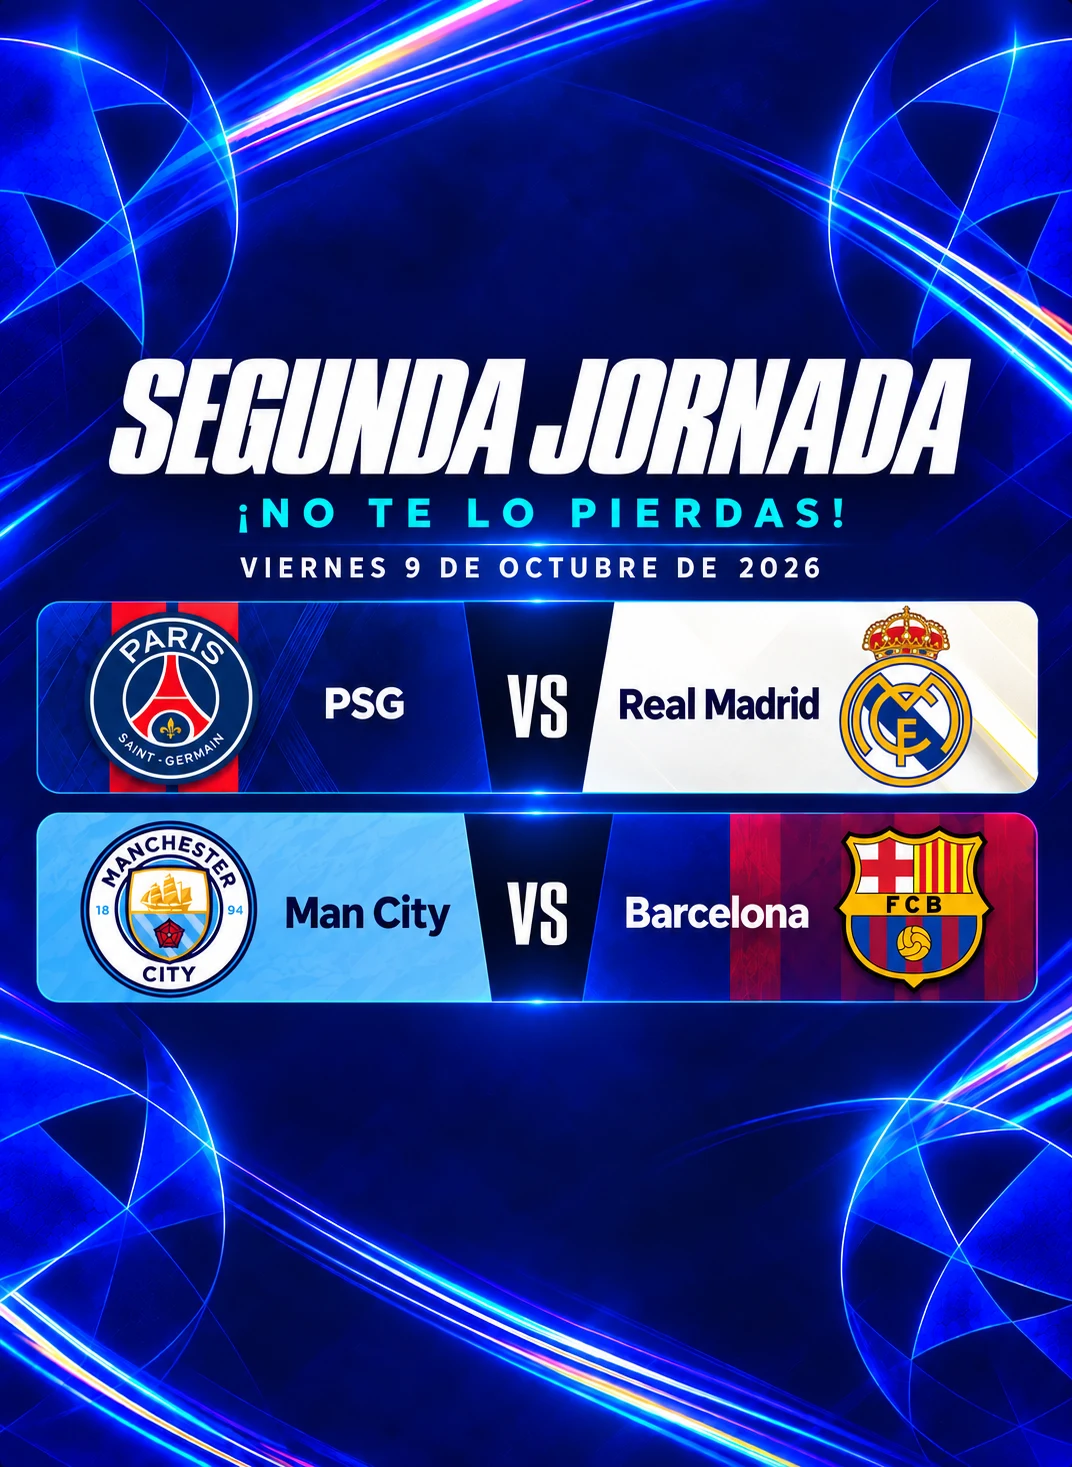
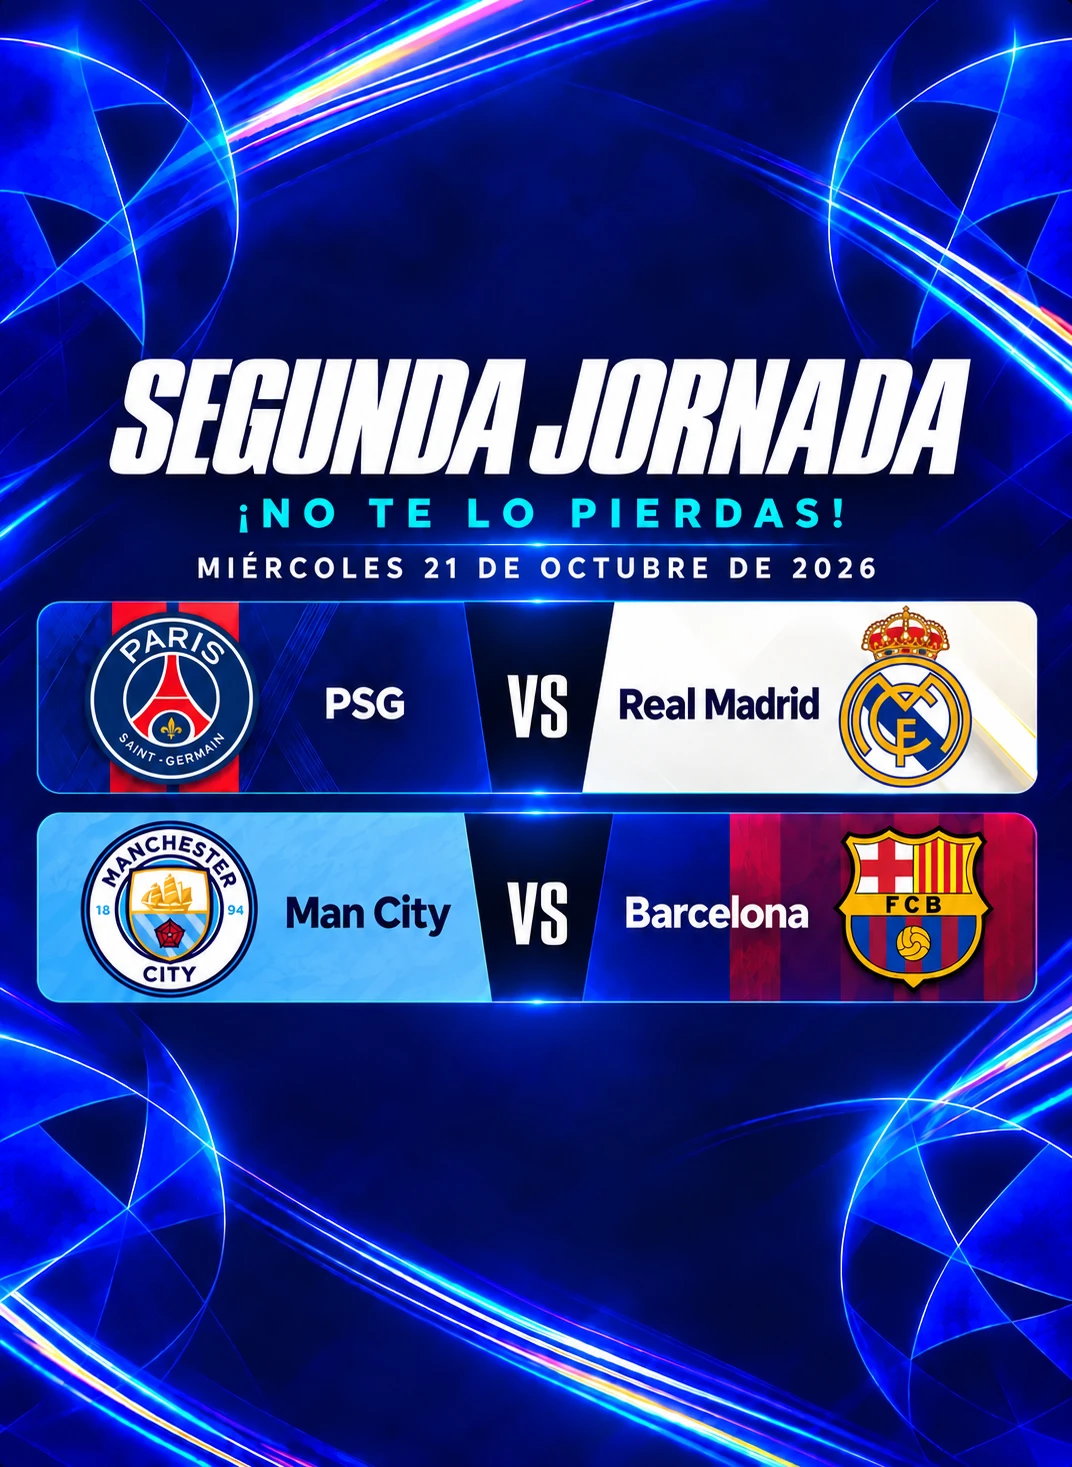
Reschedule Champions League matchdays

diff --git a/src/pages/PilotTournament.tsx b/src/pages/PilotTournament.tsx
@@ -299,11 +299,11 @@ const PilotTournament = () => {
   useAudienceTracking({ tournamentId, scope: "TOURNAMENT" });
   const [showMatchdayAd, setShowMatchdayAd] = useState(() => {
     if (typeof window === "undefined") return false;
-    return window.sessionStorage.getItem("sabis-matchday-2-ad-dismissed") !== "1";
+    return window.sessionStorage.getItem("sabis-matchday-2-oct-21-ad-dismissed") !== "1";
   });
   const dismissMatchdayAd = () => {
     setShowMatchdayAd(false);
-    window.sessionStorage.setItem("sabis-matchday-2-ad-dismissed", "1");
+    window.sessionStorage.setItem("sabis-matchday-2-oct-21-ad-dismissed", "1");
   };
 
   useEffect(() => {
@@ -386,7 +386,7 @@ const PilotTournament = () => {
       {activeSection === "home" && <>
         {showMatchdayAd && <div className="champions-matchday-ad fixed inset-0 z-50 flex items-center justify-center px-4 py-8" role="dialog" aria-modal="true" aria-label="Promoción de la segunda jornada">
           <div className="champions-matchday-ad-card relative flex max-h-full max-w-[calc(100vw-2rem)] flex-col items-center">
-            <img src={assetUrl("champions-matchday-2.webp")} alt="Segunda jornada, viernes 9 de octubre de 2026: PSG contra Real Madrid y Manchester City contra Barcelona" fetchPriority="high" className="champions-matchday-ad-image max-h-[64dvh] max-w-full rounded-[1.2rem] object-contain" />
+            <img src={assetUrl("champions-matchday-2.webp")} alt="Segunda jornada, miércoles 21 de octubre de 2026: PSG contra Real Madrid y Manchester City contra Barcelona" fetchPriority="high" className="champions-matchday-ad-image max-h-[64dvh] max-w-full rounded-[1.2rem] object-contain" />
             <button type="button" onClick={dismissMatchdayAd} aria-label="Cerrar anuncio" className="champions-matchday-ad-close absolute -right-3 -top-3 z-10 flex h-11 w-11 items-center justify-center rounded-full border border-white/20 bg-[#102451]/95 text-2xl font-black leading-none text-white shadow-xl transition hover:bg-[#1c3a75]">×</button>
             <button type="button" onClick={dismissMatchdayAd} className="champions-matchday-ad-more mt-3 min-w-[12rem] rounded-full bg-cyan-200 px-10 py-3 text-sm font-black text-[#06145f] shadow-xl transition hover:bg-white">Ver más</button>
           </div>

diff --git a/src/pilot/footballTournament.ts b/src/pilot/footballTournament.ts
@@ -86,11 +86,19 @@ export const FOOTBALL_2026_TOURNAMENT_ID = "football-2026";
 
 // A saved date (including null for unconfirmed) overrides the initial calendar.
 export const footballMatchDate = (match: { tournamentId: string; scheduledDate?: string | null; matchday?: number; stage?: string; leg?: number }) => {
+  if (match.tournamentId === FOOTBALL_2026_TOURNAMENT_ID && match.stage !== "SEMIFINAL" && match.stage !== "FINAL") {
+    const revisedDates: Record<number, { previous: string; current: string }> = {
+      2: { previous: "2026-10-09", current: "2026-10-21" },
+      3: { previous: "2026-10-16", current: "2026-10-23" },
+    };
+    const revised = revisedDates[match.matchday ?? 0];
+    if (revised && match.scheduledDate === revised.previous) return revised.current;
+  }
   if (match.scheduledDate !== undefined) return match.scheduledDate;
   if (match.tournamentId !== FOOTBALL_2026_TOURNAMENT_ID) return null;
   if (match.stage === "FINAL") return "2026-11-13";
   if (match.stage === "SEMIFINAL") return match.leg === 1 ? "2026-10-23" : match.leg === 2 ? "2026-11-06" : null;
-  return ({ 1: "2026-09-25", 2: "2026-10-09", 3: "2026-10-16" } as Record<number, string>)[match.matchday ?? 0] ?? null;
+  return ({ 1: "2026-09-25", 2: "2026-10-21", 3: "2026-10-23" } as Record<number, string>)[match.matchday ?? 0] ?? null;
 };
 
 export const FOOTBALL_2026_TEAMS: PilotTeam[] = [
